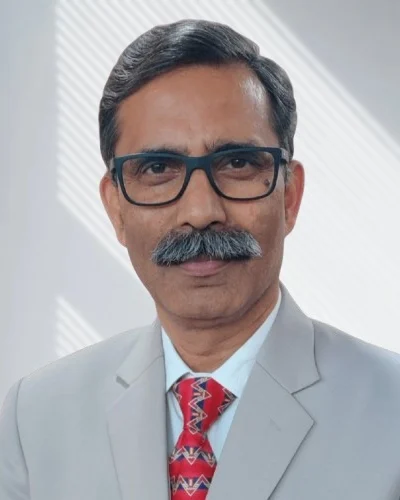
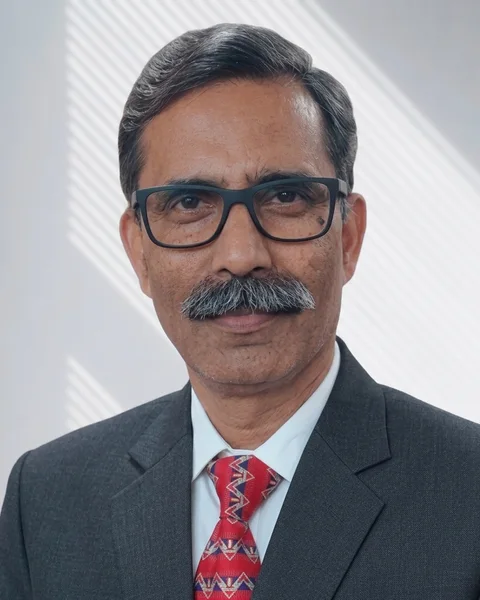
About: use new Shri Bijay Prakash portrait

diff --git a/JKNF About.dc.html b/JKNF About.dc.html
@@ -156,7 +156,7 @@
         </div>
 
         <div style="display:flex; flex-direction:column; min-width:0;">
-          <div style="aspect-ratio:4/5; width:100%; min-width:0; overflow:hidden; background:rgba(15,42,92,0.06);"><image-slot id="trustee-2" shape="rect" src="assets/trustee-bijay-prakash.webp" placeholder="Portrait — Shri Bijay Prakash"></image-slot></div>
+          <div style="aspect-ratio:4/5; width:100%; min-width:0; overflow:hidden; background:rgba(15,42,92,0.06);"><image-slot id="trustee-2" shape="rect" src="assets/trustee-bijay-prakash.webp?v=2" placeholder="Portrait — Shri Bijay Prakash"></image-slot></div>
           <div style="height:1px; margin:16px 0 12px; background:linear-gradient(to right, #C9A14A, rgba(201,161,74,0));"></div>
           <h3 style="margin:0; font-size:16px; font-weight:700; line-height:1.35;">Shri Bijay Prakash</h3>
           <div style="margin-top:6px; font-size:10px; letter-spacing:0.16em; text-transform:uppercase; color:rgba(15,42,92,0.72);">Trustee</div>
